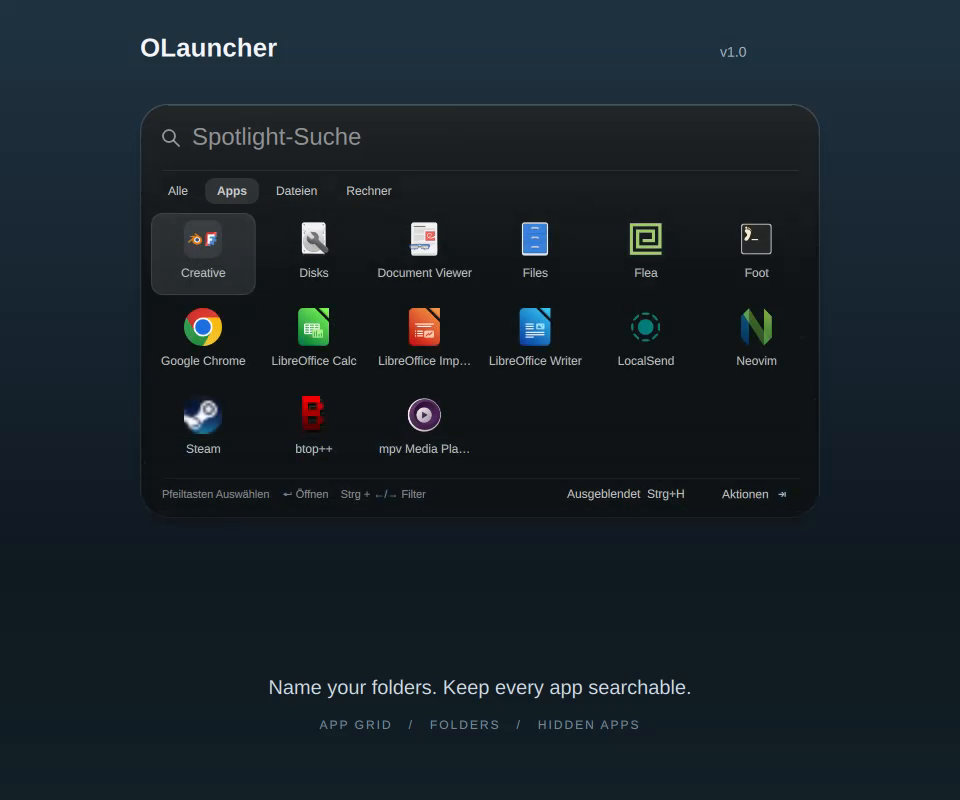
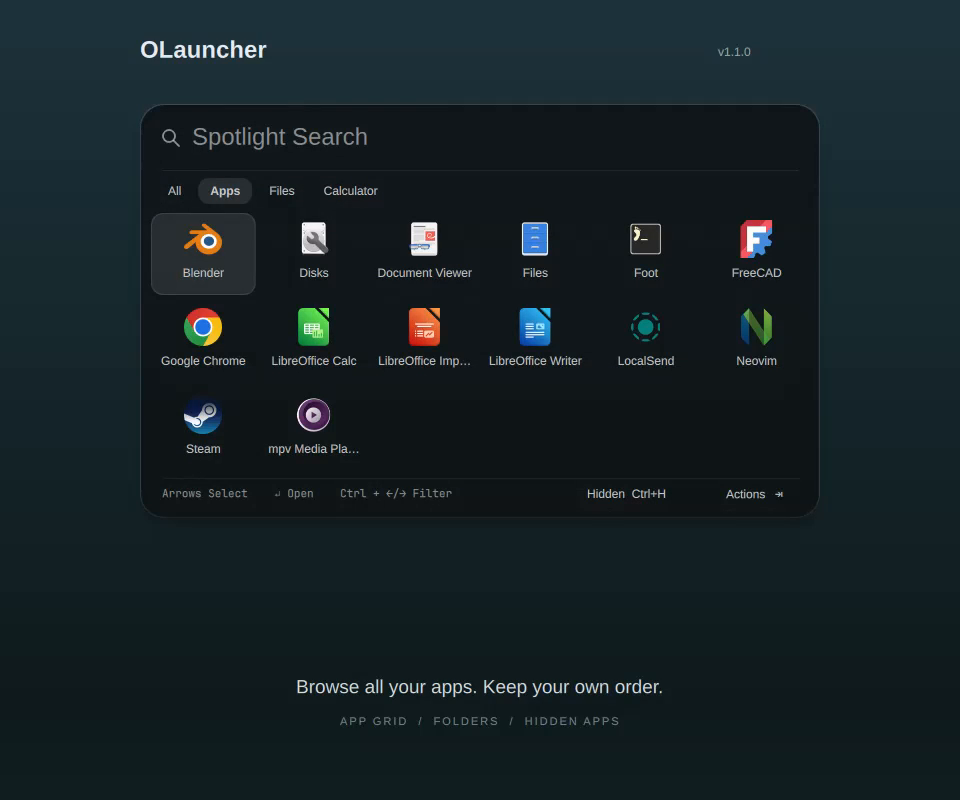
Release 1.1.0 with English UI, coordinated glass styling and demo

diff --git a/Spotlight.qml b/Spotlight.qml
@@ -22,7 +22,8 @@ Item {
   readonly property color quiet: Visual.alpha(ink,0.07)
   readonly property color secondary: Visual.alpha(ink,0.68)
   readonly property color selection: Visual.alpha(ink,0.13)
-  readonly property string uiFont: Style.font.resolvedFamily
+  readonly property string uiFont: "sans-serif"
+  readonly property string monoFont: Style.font.resolvedFamily
   property bool opened: false
   property string query: ""
   property string filter: "all"
@@ -65,16 +66,16 @@ Item {
   readonly property bool commandMode: query.trim().charAt(0) === ">"
   readonly property bool expanded: query.trim().length > 0 || filter !== "all"
   readonly property var actions: current ? (current.kind === "folder"
-    ? [{key:"open",label:"Öffnen"},{key:"rename",label:"Umbenennen"},{key:"deleteFolder",label:"Ordner auflösen"}]
+    ? [{key:"open",label:"Open"},{key:"rename",label:"Rename"},{key:"deleteFolder",label:"Dissolve folder"}]
     : openFolder && gridActive
-    ? [{key:"open",label:"Öffnen"},{key:"removeFromFolder",label:"Aus Ordner entfernen"},{key:"hide",label:"Aus OLauncher ausblenden"}]
+    ? [{key:"open",label:"Open"},{key:"removeFromFolder",label:"Remove from folder"},{key:"hide",label:"Hide from OLauncher"}]
     : current.kind === "app"
-    ? [{key:"open",label:"Öffnen"},{key:"copy",label:"Name kopieren"},{key:"hide",label:"Aus OLauncher ausblenden"}]
+    ? [{key:"open",label:"Open"},{key:"copy",label:"Copy name"},{key:"hide",label:"Hide from OLauncher"}]
     : current.kind === "file"
-    ? [{key:"open", label:"Öffnen"}, {key:"folder", label:"Ordner öffnen"}, {key:"copy", label:"Pfad kopieren"}]
-    : [{key:"open", label:current.kind === "calc" ? "Ergebnis kopieren" : current.kind === "cmd" ? "Befehl ausführen" : "Öffnen"},
-       {key:"copy", label:current.kind === "app" ? "Name kopieren" : current.kind === "cmd" ? "Befehl kopieren" : "Ergebnis kopieren"}]) : []
-  readonly property var filters: [{key:"all",label:"Alle"}, {key:"app",label:"Apps"}, {key:"file",label:"Dateien"}, {key:"calc",label:"Rechner"}]
+    ? [{key:"open", label:"Open"}, {key:"folder", label:"Open folder"}, {key:"copy", label:"Copy path"}]
+    : [{key:"open", label:current.kind === "calc" ? "Copy result" : current.kind === "cmd" ? "Run command" : "Open"},
+       {key:"copy", label:current.kind === "app" ? "Copy name" : current.kind === "cmd" ? "Copy command" : "Copy result"}]) : []
+  readonly property var filters: [{key:"all",label:"All"}, {key:"app",label:"Apps"}, {key:"file",label:"Files"}, {key:"calc",label:"Calculator"}]
   property real windowProgress: opened ? 1 : 0
   Behavior on windowProgress { NumberAnimation { duration: root.opened ? 210 : 160; easing.type: Easing.OutCubic } }
 
@@ -265,7 +266,7 @@ Item {
     if (t.indexOf("%") >= 0) return null
     try {
       var v = Function('"use strict";return (' + t + ')')()
-      return typeof v === "number" && isFinite(v) ? String(Number(v.toPrecision(12))).replace(".", ",") : null
+      return typeof v === "number" && isFinite(v) ? String(Number(v.toPrecision(12))) : null
     } catch (e) { return null }
   }
   function appResults(q, unlimited) {
@@ -280,7 +281,7 @@ Item {
       var title = root.appLibrary ? root.appLibrary.entryName(e) : String(e.name || id)
       var name = title.toLowerCase(), needle = q.toLowerCase()
       var match = !needle ? 0 : name === needle ? 300 : name.indexOf(needle) === 0 ? 200 : name.indexOf(needle) >= 0 ? 100 : 0
-      out.push({kind:"app",appId:id,title:title,subtitle:root.appLibrary ? root.appLibrary.entrySubtext(e) || "Programm" : "Programm",
+      out.push({kind:"app",appId:id,title:title,subtitle:root.appLibrary ? root.appLibrary.entrySubtext(e) || "Application" : "Application",
         icon:root.appLibrary ? root.appLibrary.iconSource(e.icon) : iconOr(e.icon),score:match + Math.min(50, Number(root.usage[id] || 0) * 3),order:i})
     }
     out.sort(function(a,b) { return b.score - a.score || a.order - b.order })
@@ -332,7 +333,7 @@ Item {
     var q = root.query.trim(), out = []
     if (q.charAt(0) === ">") {
       var cmd = q.slice(1).trim()
-      if (cmd) out.push({kind:"cmd",title:cmd,subtitle:"Shell-Befehl · Enter zum Ausführen",icon:iconOr("utilities-terminal")})
+      if (cmd) out.push({kind:"cmd",title:cmd,subtitle:"Shell command · Enter to run",icon:iconOr("utilities-terminal")})
     } else {
       var value = calculate(q)
       if (value !== null) out.push({kind:"calc",title:value,subtitle:q + " =",icon:iconOr("accessories-calculator")})
@@ -527,28 +528,28 @@ Item {
         anchors.fill: parent
         visible: root.expanded
         radius: Visual.radiusOuter
-        // A substantial theme tint keeps text readable without compositor blur.
-        color: Visual.alpha(root.material,0.94)
+        // Frosted material shared with the dock, denser for text readability.
+        color: Visual.alpha(root.material,Visual.surfaceOpacity)
         border.width: 1
-        border.color: Visual.alpha(root.ink,0.16)
+        border.color: Visual.alpha(root.ink,Visual.edgeOpacity)
         Rectangle {
           anchors.fill: parent; radius: parent.radius
           gradient: Gradient {
-            GradientStop { position: 0; color: "#14ffffff" }
-            GradientStop { position: 0.45; color: "#00ffffff" }
+            GradientStop { position: 0; color: Visual.alpha("#ffffff",Visual.sheenOpacity) }
+            GradientStop { position: 0.5; color: "#00ffffff" }
             GradientStop { position: 1; color: "#09000000" }
           }
         }
         Rectangle {
           x: parent.radius; y: 1; width: parent.width - 2 * x; height: 1
-          color: "#24ffffff"
+          color: Visual.alpha("#ffffff",0.16)
         }
         layer.enabled: true
         layer.effect: MultiEffect {
           shadowEnabled: true
-          shadowColor: "#38000000"
-          shadowBlur: 0.65
-          shadowVerticalOffset: 8
+          shadowColor: Visual.shadowColor
+          shadowBlur: Visual.shadowBlur
+          shadowVerticalOffset: Visual.shadowOffset
         }
       }
       MorphSurface {
@@ -562,13 +563,15 @@ Item {
         expandedMainWidth: surface.width - root.quickApps.length * (buttonDiameter + buttonGap)
         shapeCenterY: 51
         shapeHeight: 66
-        mainCornerRadius: 28
+        mainCornerRadius: Visual.radiusOuter
         buttonCount: root.quickApps.length
         buttonDiameter: Math.min(64, Math.max(28, (surface.width - 180) / 4 - 10))
         buttonGap: 10
         blurEdgeInset: 2
-        surfaceColor: Visual.alpha(root.material,0.94)
-        shadowColor: "#40000000"
+        surfaceColor: Visual.alpha(root.material,Visual.surfaceOpacity)
+        shadowColor: Visual.shadowColor
+        shadowBlur: Visual.shadowBlur
+        shadowVerticalOffset: Visual.shadowOffset
       }
       MouseArea { anchors.fill: parent }
       Canvas {
@@ -601,7 +604,7 @@ Item {
         color: root.ink
         selectionColor: Visual.alpha(Color.accent,0.35)
         selectedTextColor: root.ink
-        font.family: root.uiFont
+        font.family: root.commandMode ? root.monoFont : root.uiFont
         font.pixelSize: 24
         text: root.query
         onTextChanged: root.query = text
@@ -610,7 +613,7 @@ Item {
         Label {
           anchors.verticalCenter: parent.verticalCenter
           width: parent.width
-          text: "Spotlight-Suche"
+          text: "Spotlight Search"
           color: root.secondary
           font.pixelSize: 24
           visible: !input.text.length
@@ -692,7 +695,7 @@ Item {
           id: filtersRow
           x: 8; y: 8; spacing: 5; height: 32
           Repeater {
-            model: root.commandMode ? [{key:"all",label:"Befehl"}] : root.filters
+            model: root.commandMode ? [{key:"all",label:"Command"}] : root.filters
             delegate: Rectangle {
               required property var modelData
               width: chipLabel.implicitWidth + (surface.width < 360 ? 16 : 24); height: 26; radius: Visual.radiusControl
@@ -786,7 +789,7 @@ Item {
               Column {
                 x: 56; anchors.verticalCenter: parent.verticalCenter
                 width: parent.width - 104; spacing: 3
-                Label { width: parent.width; text: row.modelData.title; font.pixelSize: row.modelData.kind === "calc" ? 22 : 15 }
+                Label { width: parent.width; text: row.modelData.title; font.family: row.modelData.kind === "cmd" ? root.monoFont : root.uiFont; font.pixelSize: row.modelData.kind === "calc" ? 22 : 15 }
                 Label { width: parent.width; text: row.modelData.subtitle; font.pixelSize: 12; color: root.secondary }
               }
               Label { anchors.right: parent.right; anchors.rightMargin: 15; anchors.verticalCenter: parent.verticalCenter; text: "↵"; font.pixelSize: 19; visible: row.index === root.selected; color: root.secondary }
@@ -806,7 +809,7 @@ Item {
             anchors.centerIn: parent; width: parent.width - 32
             horizontalAlignment: Text.AlignHCenter
             visible: !root.gridActive && root.results.length === 0
-            text: root.searching ? "Dateien werden gesucht …" : root.searchError ? "Dateisuche nicht verfügbar" : root.commandMode ? "Befehl nach > eingeben" : root.filter === "calc" ? "Rechnung eingeben, z. B. 125 × 1,19" : root.filter === "file" && root.query.trim().length < 2 ? "Mindestens zwei Zeichen eingeben" : "Keine Treffer"
+            text: root.searching ? "Searching files …" : root.searchError ? "File search unavailable" : root.commandMode ? "Type a command after >" : root.filter === "calc" ? "Enter a calculation, e.g. 125 × 1.19" : root.filter === "file" && root.query.trim().length < 2 ? "Type at least two characters" : "No results"
             color: root.secondary
           }
         }
@@ -819,8 +822,8 @@ Item {
             x: 14; anchors.verticalCenter: parent.verticalCenter
             width: Math.max(0,parent.width - (actionsButton.visible ? actionsButton.width : 0) - (hiddenButton.visible ? hiddenButton.width + 8 : 0) - 40)
             visible: !root.actionsOpen && width > 100
-            font.pixelSize: 11; color: root.secondary
-            text: root.hiddenOpen ? "↑↓ Auswählen    ↵ Einblenden    Esc Zurück" : root.searching ? "Dateien werden gesucht …" : root.searchError ? "Dateisuche nicht verfügbar · Apps bleiben nutzbar" : root.gridActive ? "Pfeiltasten Auswählen    ↵ Öffnen    Strg + ←/→ Filter" : "↑↓ Auswählen    ↵ Öffnen    Strg + ←/→ Filter"
+            font.pixelSize: 11; font.family: root.monoFont; color: root.secondary
+            text: root.hiddenOpen ? "↑↓ Select    ↵ Unhide    Esc Back" : root.searching ? "Searching files …" : root.searchError ? "File search unavailable · Apps still available" : root.gridActive ? "Arrows Select    ↵ Open    Ctrl + ←/→ Filter" : "↑↓ Select    ↵ Open    Ctrl + ←/→ Filter"
           }
           Rectangle {
             id: hiddenButton
@@ -828,7 +831,7 @@ Item {
             anchors.right: actionsButton.left; anchors.rightMargin: 8; anchors.verticalCenter: parent.verticalCenter
             width: Math.min(144,Math.max(112,parent.width - 122)); height: 24; radius: Visual.radiusControl
             color: hiddenMouse.containsMouse ? root.selection : "transparent"
-            Label { anchors.centerIn: parent; text: "Ausgeblendet  Strg+H"; font.pixelSize: 12 }
+            Label { anchors.centerIn: parent; text: "Hidden  Ctrl+H"; font.pixelSize: 12 }
             MouseArea { id: hiddenMouse; anchors.fill: parent; hoverEnabled: true; onClicked: root.showHiddenApps() }
           }
           Rectangle {
@@ -837,7 +840,7 @@ Item {
             anchors.right: parent.right; anchors.rightMargin: 10; anchors.verticalCenter: parent.verticalCenter
             width: 96; height: 24; radius: Visual.radiusControl
             color: actionsMouse.containsMouse ? root.selection : "transparent"
-            Label { anchors.centerIn: parent; text: "Aktionen   ⇥"; font.pixelSize: 12 }
+            Label { anchors.centerIn: parent; text: "Actions   ⇥"; font.pixelSize: 12 }
             MouseArea { id: actionsMouse; anchors.fill: parent; hoverEnabled: true; onClicked: root.cycleAction(1) }
           }
           ListView {

diff --git a/components/HiddenAppsView.qml b/components/HiddenAppsView.qml
@@ -11,7 +11,7 @@ Item {
   required property string uiFont
   readonly property var rows: apps.map(function(app) {
     return {key:"app:" + app.appId,appId:app.appId,title:app.title,icon:app.icon,all:false}
-  }).concat(totalHidden ? [{key:"action:restore-all",title:"Alle einblenden",icon:"",all:true}] : [])
+  }).concat(totalHidden ? [{key:"action:restore-all",title:"Unhide all",icon:"",all:true}] : [])
   readonly property real preferredHeight: 42 + Math.max(76,rows.length * 48)
   property int selectedIndex: -1
   property string selectedKey: ""
@@ -47,7 +47,7 @@ Item {
   }
   Text {
     x: 44; y: 8; width: parent.width - 52
-    text: "Ausgeblendete Apps"
+    text: "Hidden apps"
     color: root.ink; font.family: root.uiFont; font.pixelSize: 15
     elide: Text.ElideRight
   }
@@ -87,7 +87,7 @@ Item {
       }
       Text {
         anchors.right: parent.right; anchors.rightMargin: 12; anchors.verticalCenter: parent.verticalCenter
-        text: modelData.all ? "↵" : "Einblenden"
+        text: modelData.all ? "↵" : "Unhide"
         color: root.ink; font.family: root.uiFont; font.pixelSize: 12
       }
       MouseArea {
@@ -100,7 +100,7 @@ Item {
   Text {
     anchors.centerIn: list
     visible: root.rows.length === 0
-    text: "Keine ausgeblendeten Apps"
+    text: "No hidden apps"
     opacity: 0.68
     color: root.ink; font.family: root.uiFont; font.pixelSize: 14
   }

diff --git a/components/AppGridItem.qml b/components/AppGridItem.qml
@@ -39,11 +39,13 @@ Item {
     ink: root.ink
     icons: root.app.preview || []
     scale: root.opticalScale
+    transform: Translate { y: mouse.containsMouse && !mouse.pressed ? -2 : 0; Behavior on y { NumberAnimation { duration: Visual.fast; easing.type: Easing.OutCubic } } }
     Behavior on scale { NumberAnimation { duration: Visual.fast; easing.type: Easing.OutCubic } }
   }
   Image {
     id: appIcon
     scale: root.opticalScale
+    transform: Translate { y: mouse.containsMouse && !mouse.pressed ? -2 : 0; Behavior on y { NumberAnimation { duration: Visual.fast; easing.type: Easing.OutCubic } } }
     Behavior on scale { NumberAnimation { duration: Visual.fast; easing.type: Easing.OutCubic } }
     visible: root.app.kind !== "folder"
     anchors.horizontalCenter: parent.horizontalCenter

diff --git a/components/AppGrid.qml b/components/AppGrid.qml
@@ -161,7 +161,7 @@ Item {
     z: 3
     x: Math.max(0, Math.min(root.width - width, root.dragPosition.x - width / 2))
     y: root.dragPosition.y + 44
-    text: root.dropMode === "folder-add" ? "In Ordner verschieben" : "Ordner erstellen"
+    text: root.dropMode === "folder-add" ? "Move into folder" : "Create folder"
     color: root.ink
     font.family: root.uiFont
     font.pixelSize: 12
@@ -194,7 +194,7 @@ Item {
   Text {
     anchors.centerIn: parent
     visible: root.apps.length === 0
-    text: "Keine Programme"
+    text: "No applications"
     color: root.ink
     font.family: root.uiFont
     font.pixelSize: 14

diff --git a/components/Visual.js b/components/Visual.js
@@ -4,8 +4,14 @@
 // Internal material/motion vocabulary; colors are supplied by Omarchy's theme.
 var fast = 140
 var normal = 200
-var radiusOuter = 28
+var radiusOuter = 24
 var radiusPanel = 18
 var radiusControl = 10
 var radiusItem = 12
+var surfaceOpacity = 0.85
+var edgeOpacity = 0.22
+var sheenOpacity = 0.08
+var shadowColor = "#38000000"
+var shadowBlur = 0.65
+var shadowOffset = 8
 function alpha(color, opacity) { return Qt.rgba(color.r, color.g, color.b, opacity) }

diff --git a/README.md b/README.md
@@ -4,7 +4,14 @@ A Spotlight-style launcher for Omarchy with unified app/file search, a calculato
 
 ![OLauncher demo: most-used apps, App Grid, folders, hidden apps and search](media/preview.gif)
 
-[Watch or download the 26-second demo (MP4)](https://github.com/hisnameismarco/OLauncher/releases/download/v1.0/olauncher-v1.0-demo.mp4). Recorded with isolated demo data on a neutral background.
+[Watch or download the v1.1.0 demo (MP4)](https://github.com/hisnameismarco/OLauncher/releases/download/v1.1.0/olauncher-v1.1.0-demo.mp4). Recorded with isolated demo data on a neutral background.
+
+## Version 1.1.0
+
+- Coordinated frosted-glass styling with [ODock](https://github.com/hisnameismarco/odock): 24 px outer corners, softer light edges and shadows, and an 85% opaque launcher surface.
+- System sans-serif UI text, quiet hover highlights and a small icon lift.
+- English interface and decimal point calculator output; decimal comma input remains supported.
+- Existing app order, folders, hidden apps and usage history are preserved.
 
 ## Features
 
@@ -15,19 +22,19 @@ A Spotlight-style launcher for Omarchy with unified app/file search, a calculato
 - The empty **Apps** filter opens a compact, scrollable grid with manual ordering, folders, and reversible hidden apps. Typing returns immediately to search.
 - Golden Gate / Liquid Glass inspired styling follows Omarchy's theme and remains readable without compositor blur.
 - Search applications, filenames and arithmetic together. Filters: All, Apps, Files, Calculator.
-- Decimal comma, multiplication/division symbols, powers and postfix percentages: `125*1,19` → `148,75`.
+- Decimal comma, multiplication/division symbols, powers and postfix percentages: `125*1,19` → `148.75` (decimal point output).
 - Contextual actions: open, open containing folder, copy path/name/result.
 - Commands run only with an explicit `>` prefix and activation.
 - Cancelled requests cannot overwrite results for a newer query. File searches time out after 8 seconds.
 
-The current interface language is German. This is an independent Linux launcher inspired by Spotlight, not an Apple product or a pixel-exact macOS implementation.
+The interface defaults to English, including actions, hints, folder controls and empty/error states. This is an independent Linux launcher inspired by Spotlight, not an Apple product or a pixel-exact macOS implementation.
 
 ## Requirements
 
 - Omarchy **Quattro shell / plugin API v1**, Quickshell with Qt 6 Quick Effects, Hyprland.
 - `python3`, `fd`, `wl-copy` (wl-clipboard), `xdg-open` (xdg-utils), `gtk-launch` (gtk3) and `uwsm`.
 - Node.js is only needed to run the developer tests.
-- Uses Omarchy’s configured font and popup theme colors. No Apple fonts or icons are bundled. App icons come from the user’s icon theme.
+- Uses the system sans-serif font for the interface, Omarchy’s configured font for commands and keyboard hints, and Omarchy’s popup theme colors. No Apple fonts or icons are bundled. App icons come from the user’s icon theme.
 
 ## Install
 

diff --git a/PUBLISHING.md b/PUBLISHING.md
@@ -11,10 +11,12 @@ Description:
 
 > A liquid app launcher for Omarchy. Press Tab to reveal your four most-used apps as animated circles, or search apps, filenames and arithmetic in one place. Includes a compact Apps grid with manual ordering, folders and reversible hidden apps, contextual actions, keyboard navigation, local usage ranking and explicit shell commands. No AI or cloud services.
 
-The website requires a public GitHub repository with a root manifest, README and license. Listing approval is separate from publishing the code. Release v1.0 includes the complete reviewed App Grid implementation and its tests.
+The website requires a public GitHub repository with a root manifest, README and license. Listing approval is separate from publishing the code. Release v1.1.0 adds coordinated glass styling and an English interface to the reviewed App Grid implementation.
 
 Publishing guide / submission form: https://plugins.omarchy.org/publish.html
 
 The v1.0 checkout passed an isolated clean installation using the real Omarchy add/enable/validate/remove commands and a local Git snapshot. Fresh HOME/XDG directories, a private session bus and a copied host isolate production state. Reorder, folder rename, hidden state and usage survive host restart; migration, malformed state and future-schema protection are covered by `tests/clean_install_test.py`. App launch commands are captured at the host execution boundary, without opening real applications. This is a fresh plugin installation on the installed Omarchy runtime, not a second OS installation. See `RELEASE_REVIEW.md` for the pre-publication review and test boundaries.
 
-Earlier isolated runtimes cover dark/light materials, blur-off readability, narrow widths, 1.5× rendering and 2× interaction tests. Both direct Apps payload commands pass in the clean-install host. The demo in `media/preview.gif` shows most-used apps, the App Grid, folder creation and rename, hidden-app restoration and search. It was recorded using isolated demo data and a neutral background, without personal windows. An MP4 is attached to the v1.0 GitHub release.
+Earlier isolated runtimes cover dark/light materials, blur-off readability, narrow widths, 1.5× rendering and 2× interaction tests. Both direct Apps payload commands pass in the clean-install host. The demo in `media/preview.gif` shows most-used apps, the App Grid, folder creation and rename, hidden-app restoration and search. It was recorded using isolated demo data and a neutral background, without personal windows. The refreshed v1.1.0 demo uses the same neutral presentation style and is attached to the v1.1.0 GitHub release.
+
+The v1.1.0 candidate also passed plugin validation, the Node launcher regression suite, the Python search and layout-store suites, and all four isolated clean-install tests. The changed QML components passed all 34 existing runtime tests.
